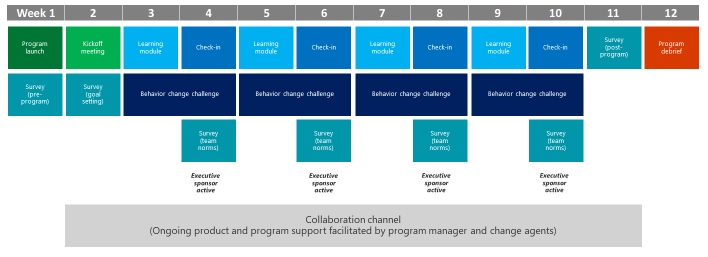
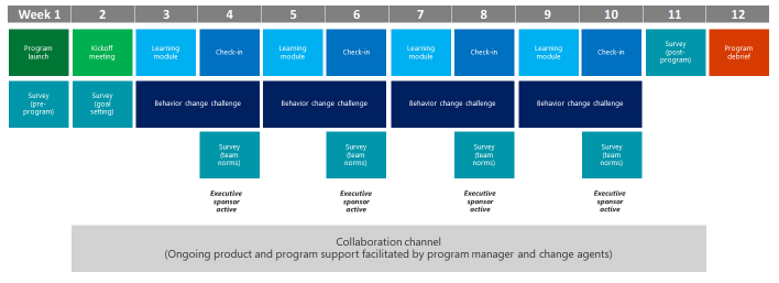
resize images for adopt teams; change headings in exclusions

diff --git a/WorkplaceAnalytics/Use/Create-custom-meeting-exclusions-rules.md b/WorkplaceAnalytics/Use/Create-custom-meeting-exclusions-rules.md
@@ -20,7 +20,7 @@ VERIFY AND UPDATE THIS CONTENT.
 
 This topic contains step-by-step examples detailing how to work with meeting exclusions.
 
-## How to create and run an “All meetings default” query using default meeting exclusions
+## Create and run an “All meetings default” query using default meeting exclusions
 
 In this task, you will create a query that lists all meetings not excluded by the default exclusions.
 By default, Workplace Analytics excludes the following types of meetings from query results, as they are not likely to represent relevant workplace meetings:
@@ -33,16 +33,19 @@ In addition, Workplace Analytics will exclude meetings that are marked as Privat
 
 If you not yet created any meeting queries, review the Meeting queries section in the topic [Create queries in Workplace Analytics](../Use/Create-queries.md).
 
-### To create and run an “All meetings default” query using default exclusions 
+**To create and run an “All meetings default” query using default exclusions**
+
 1. Create a new meeting query, named _All meetings default_.
 2. In the **Meeting exclusions** menu, select **Default meeting exclusion rule**.
 3. Under **Metrics**, click **Add metric**, and then add all the available metrics (Attendees, Attendee multitasking and so on) to the query.
 4. Run the query.
 
-## How to create and run a “Meetings excluded default” query
+## Create and run a “Meetings excluded default” query
+
 In order to evaluate the relevance of the default meeting exclusions for your company, you will need a list of those meetings that are excluded. To get that list, you will create and run a _Meetings excluded default_ query.
 
-### To create a "Meeting excluded default" query
+**To create a "Meeting excluded default" query**
+
 1. On the **Queries** page, on the **Queries** tab, click **Meeting exclusions**.
 2. Follow these steps to create a meeting exclusions rule set that is the opposite of the default meeting:
 
@@ -64,7 +67,7 @@ In order to evaluate the relevance of the default meeting exclusions for your co
 7. To run the query, click **Run**.
 8. On the **Queries** page, on the **Results** tab, hover over the line for your report, and once the status is Succeeded, click **View** or **Download**.
 
-## How to create custom meeting exclusions
+## Create custom meeting exclusions
 After a review of the all meetings and default excluded meetings, you may decide to create custom meeting exclusion rules to more closely reflect your company’s meeting norms and culture.
 
 [!INCLUDE [Create a custom meeting-exclusion rule](../Includes/to-create-custom-meeting-exclusion-rule.md)]
